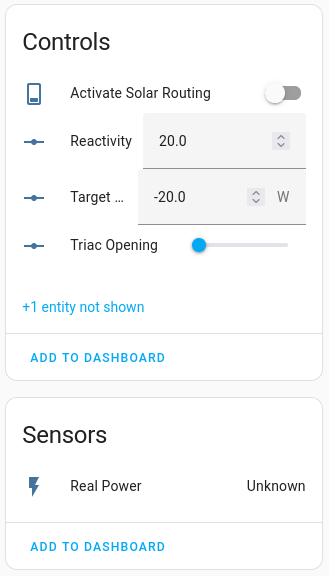
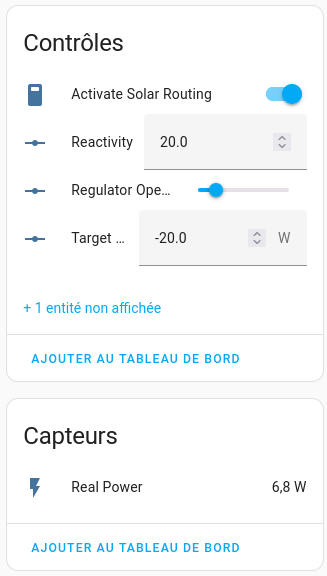
feat(relay): Add regulator_relay

diff --git a/docs/hardware.md b/docs/hardware.md
@@ -2,10 +2,18 @@
 
 The hardware used for development is the one proposed by [F1ATB.fr](https://f1atb.fr/fr/routeur-photovoltaique-realisation-materielle/) ![fr](images/france.png).
 
-Here is the schematic of a solar router with a minimal number of component.
+On the photos bellow; as the heat dissipator provided by RobotDyn is under dimensionned, the triac has been unsoldered from the board and screwed into a big heat dissipator. Wires have been added to link the triac into the board.
 
+A 12V power supply is used in addition with a buck converter to power the system. The 12V may be used to power a fan in an event of an over heating.
 
-![hardware connection](images/hardware.drawio.png)
+![SolarRouteOpen](images/SolarRouterOpen.png){ width=360 }
+![SolarRouteClose](images/SolarRouterClosed.png){ width=300 }
+
+The router has been built to be connected to a frost protection system and then provide standard electricals sockets.
+
+## Using a regulator base on a triac
+
+![triac connection](images/hardware_triac.drawio.png)
 
 Bill of material:
 
@@ -15,11 +23,14 @@ Bill of material:
 * 1 x Triac from RobotDyn 24A
 * 2 x resistor 470 Ohms for LEDs
 
-On the photo bellow, as the heat dissipator provided by RobotDyn is under dimensionned, the triac has been unsoldered from the board and screwed into a big heat dissipator. Wires have been added to link the triac into the board.
+## Using a regulator base on a relay
 
-In addition a 12V power supply is used in addition with a buck converter to power the system. The 12V may be used to power a fan in an event of an over heating.
+![relays connection](images/hardware_relais.drawio.png)
 
-![SolarRouteOpen](images/SolarRouterOpen.png)
-![SolarRouteClose](images/SolarRouterClosed.png)
+Bill of material:
 
-The router has been built to be connected to a frost protection system and then provide standard electricals sockets.
+* 1 x ESP32-dev board (Wroom-32U with external antenna)
+* 1 x Green LED
+* 1 x Yellow LED
+* 1 x Solid state relay
+* 2 x resistor 470 Ohms for LEDs

diff --git a/docs/relay.md b/docs/relay.md
@@ -1,5 +1,40 @@
 # Relay regulator
 
+A relay is able to let current pass to the load or not. By sending small part of current (blinking), it is possibile to divert a well defined amount of energy to the load.
+
+!!! tip "Tip: This regulator can also be used with a triac"
+
+??? note "How does this regulator work?"
+    This regulator is sending a PWM (Pulse Width Modulation) signal to the relay. The period of the PWM is 330ms. The duty cycle determine the amount of energy transfered.  
+    If you want to know more how a PWM can regulate the transmited energy, you can refer to [Wikipedia](https://en.wikipedia.org/wiki/Pulse-width_modulation).  
+    <figure markdown="span">
+      ![triac function](images/Duty_Cycle_Examples.png){ width="300" } 
+      <figcaption>Duty Cycle examples (Source: Wikipedia)</figcaption>
+    </figure>
+
 ![SSR](images/SSR.png)
 
-Relay are not supported yet...
+!!! warning
+    It is recommanded to attched the relay to a heat dissipator.
+
+The following schematic is representing the wiring of the relay:
+
+![relay](images/relay.drawio.png)
+
+To use this package, add the following lines to your configuration file:
+
+```yaml linenums="1"
+packages:
+  power_meter:
+    url: http://github.com/XavierBerger/ESPHome-Solar-Router/
+    file: solar_router/regulator_relay.yaml
+```
+
+This package require the definition of pin connected to the triac module for zero crossing detection (regulator_zero_crossing_pin) and gate/PWM control (regulator_gate_pin)
+
+```yaml linenums="1"
+substitutions:
+  # Regulator configuration ------------------------------------------------------
+  # Define GPIO pin connected to the relay gate.
+  regulator_gate_pin: GPIO22
+```

diff --git a/docs/triac.md b/docs/triac.md
@@ -3,8 +3,8 @@
 A triac is able to split the current sent to the load to reduce the power transmitted.  
 This component is the base of AC Dimmers.
 
-??? note "How does triac work?"
-    If you want to know more about this component, you can refer to [Wikipedia](https://en.wikipedia.org/wiki/TRIAC#Application).  
+??? note "How does this regulator work?"
+    If you want to know more how a triac can regulate the transmited energy, you can refer to [Wikipedia](https://en.wikipedia.org/wiki/TRIAC#Application).  
     The following schema is showing how the input sinus is cut to reduce the energy transfered to the load:
 
     <figure markdown="span">
@@ -19,8 +19,7 @@ In this package, we propose to use a board manufactured by RobotDyn.
 
 !!! warning
     The triac is supposed to support up the 24A (which represent a power greater than 5500W). The heat dissipator is undersized regarding to the level of energy which is supported by the triac. It is then recommanded to replace the heat dissipator with a bigger one.
-
-The following schematic is representing the wiring of the board
+The following schematic is representing the wiring of the board:
 ![triac](images/RobotDynTriac24A.drawio.png)
 
 To use this package, add the following lines to your configuration file:

diff --git a/docs/contributing.md b/docs/contributing.md
@@ -26,7 +26,7 @@ This sensor is used by the **Solar Router Engine** to get the value of power exc
 
 If this new power meter needs specific configuration, required parameters have to be added into `substitution` section.
 
-A documentation have to be added describing the power meter and how to configure it. See [update documentation](developers.md#update-documentation) chapter bellow.
+A documentation have to be added describing the power meter and how to configure it. See [update documentation](#update-documentation) chapter bellow.
 
 ## Developping a **Regulator**
 
@@ -47,7 +47,7 @@ script:
 ```
 If this new power meter needs specific configuration, required parameters have to be added into `substitution` section.
 
-A documentation have to be added describing the power meter and how to configure it. See [update documentation](developers.md#update-documentation) chapter bellow.
+A documentation have to be added describing the power meter and how to configure it. See [update documentation](#update-documentation) chapter bellow.
 
 ## Update **Documentation**
 

diff --git a/docs/installation.md b/docs/installation.md
@@ -26,7 +26,7 @@ A **proxy** just need 1 **power meter** package
 * [Proxy client](proxy_client.md)  
     Get power data from outside from solar router
 !!! abstract "Contribute"
-    You are developer and your power meter is missing fron this list, refer to [developers](developers.md) section to see how to contribute to this project.
+    You are developer and your power meter is missing fron this list, refer to [contributing](contributing.md) section to see how to contribute to this project.
 
 #### Step 2.2: Select a Regulator
 
@@ -35,7 +35,7 @@ A **proxy** just need 1 **power meter** package
 * [Relay](relay.md)  
   Regulate energy with a Solid State Relais or a Triac 
 !!! abstract "Contribute"
-    You are developer and your regulator is missing fron this list, refer to [developers](developers.md) section to see how to contribute to this project.
+    You are developer and your regulator is missing fron this list, refer to [contributing](contributing.md) section to see how to contribute to this project.
 
 
 #### Step 2.3: Add the Solar Router Engine

diff --git a/README.md b/README.md
@@ -14,4 +14,7 @@ This integration enables users to effortlessly monitor and control the router's 
 **This project involves working with 230 volts , which can be hazardous.**  
 **Please read the [disclaimer](https://xavierberger.github.io/Solar-Router-for-ESPHome/disclamer/) before proceeding with the "Solar Router for ESPHome" project.**
 
+<div style="text-align:center">
 <img src="docs/images/SolarRouterClosed.png" alt="drawing" style="width:400px;"/>
+<img src="docs/images/SolarRouterInHomeAssistantDashboard.png" alt="drawing" style="width:350px;"/>
+</div>

diff --git a/docs/index.md b/docs/index.md
@@ -10,4 +10,5 @@ This integration enables users to effortlessly monitor and control the router's 
     This project involves working with high voltage (110 or 230 volts), which can be hazardous.  
     Please read the [disclaimer](disclamer.md) before proceeding with the **Solar Router for ESPHome** project. 
 
-![SolarRouterClosed](images/SolarRouterClosed.png)
+![SolarRouterClosed](images/SolarRouterClosed.png){width=350}
+![Dashboard](images/SolarRouterInHomeAssistantDashboard.png){width=350}
